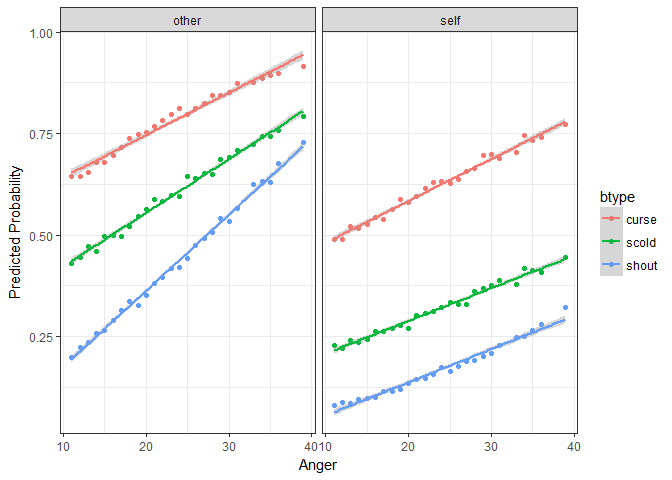
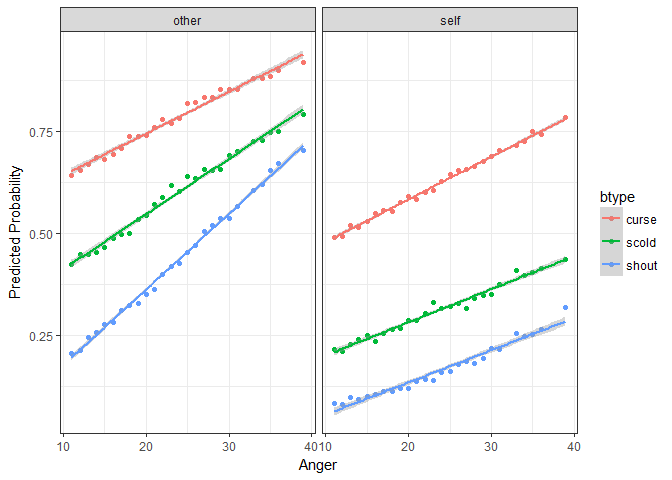
fix build errors and notes

diff --git a/README.md b/README.md
@@ -49,7 +49,6 @@ Shiny App and Demo
 The easiest way to demo the features of this application is to use the bundled Shiny application which launches a number of the metrics here to aide in exploring the model. To do this:
 
 ``` r
-devtools::install_github("jknowles/merTools")
 library(merTools)
 m1 <- lmer(y ~ service + lectage + studage + (1|d) + (1|s), data=InstEval)
 shinyMer(m1, simData = InstEval[1:100, ]) # just try the first 100 rows of data
@@ -86,17 +85,17 @@ With `predictInterval` we obtain predictions that are more like the standard obj
 #predictInterval(m1, newdata = InstEval[1:10, ]) # all other parameters are optional
 predictInterval(m1, newdata = InstEval[1:10, ], n.sims = 500, level = 0.9, 
                 stat = 'median')
-#>         fit      upr       lwr
-#> 1  3.237114 5.178429 1.1223680
-#> 2  3.044461 4.916916 1.0961706
-#> 3  3.438357 5.332750 1.4219809
-#> 4  3.027571 4.973256 0.9901124
-#> 5  3.269985 5.462748 1.4136442
-#> 6  3.286969 5.296241 1.3382832
-#> 7  4.242488 6.542798 2.0041429
-#> 8  3.721571 5.736674 1.8343516
-#> 9  3.743598 5.891128 1.7195178
-#> 10 3.419343 5.341034 1.4319983
+#>         fit      upr      lwr
+#> 1  3.168065 5.101014 1.158220
+#> 2  3.145478 5.274931 1.190373
+#> 3  3.392613 5.590413 1.539565
+#> 4  3.138387 5.028683 1.311576
+#> 5  3.397307 5.486894 1.287190
+#> 6  3.263650 5.191198 1.199061
+#> 7  4.251013 6.065739 2.107230
+#> 8  4.047291 5.813104 1.974133
+#> 9  3.686001 5.838891 1.816260
+#> 10 3.264626 5.234812 1.289614
 ```
 
 Note that `predictInterval` is slower because it is computing simulations. It can also return all of the simulated `yhat` values as an attribute to the predict object itself.
@@ -110,52 +109,53 @@ We can also explore the components of the prediction interval by asking `predict
 ``` r
 predictInterval(m1, newdata = InstEval[1:10, ], n.sims = 200, level = 0.9, 
                 stat = 'median', which = "all")
-#>      effect         fit      upr       lwr obs
-#> 1  combined  3.13802196 4.719743  1.347545   1
-#> 2  combined  2.95109536 4.872412  1.410548   2
-#> 3  combined  3.37110677 5.469444  1.466620   3
-#> 4  combined  3.16988494 5.195515  1.191728   4
-#> 5  combined  3.40252170 5.463127  1.449450   5
-#> 6  combined  3.15570458 5.303344  1.369328   6
-#> 7  combined  4.22907656 6.020314  2.477142   7
-#> 8  combined  3.77138257 5.908368  1.961115   8
-#> 9  combined  3.67200743 5.702303  1.895175   9
-#> 10 combined  3.39860415 5.780355  1.131460  10
-#> 11        s  0.02263697 2.024355 -1.879137   1
-#> 12        s  0.08910235 2.453711 -1.910101   2
-#> 13        s  0.20390380 2.204549 -1.531280   3
-#> 14        s  0.07476931 2.209324 -1.635799   4
-#> 15        s -0.27105952 1.597833 -1.960480   5
-#> 16        s -0.14858409 2.373469 -2.071048   6
-#> 17        s  0.36679666 2.167334 -1.799921   7
-#> 18        s  0.11402859 2.031803 -1.733151   8
-#> 19        s  0.47395479 2.392591 -1.389445   9
-#> 20        s  0.28443184 2.295856 -1.528997  10
-#> 21        d -0.14468649 2.031511 -2.079169   1
-#> 22        d -0.09577183 1.728302 -2.223127   2
-#> 23        d  0.10723798 2.159129 -1.833482   3
-#> 24        d -0.12653441 1.794607 -2.164757   4
-#> 25        d  0.15969618 2.228805 -2.052448   5
-#> 26        d  0.04889610 1.936657 -1.930860   6
-#> 27        d  0.68879320 2.383263 -1.000621   7
-#> 28        d  0.20416870 2.021266 -1.587005   8
-#> 29        d  0.11384126 2.124815 -1.704743   9
-#> 30        d -0.25093957 1.666946 -2.176818  10
-#> 31    fixed  3.15731377 5.161839  1.284808   1
-#> 32    fixed  3.25919968 5.116450  1.447072   2
-#> 33    fixed  3.28844467 5.029445  1.231928   3
-#> 34    fixed  3.15963283 5.190806  1.037147   4
-#> 35    fixed  3.33292708 4.782191  1.367022   5
-#> 36    fixed  3.29658917 5.107461  1.308795   6
-#> 37    fixed  3.25299127 5.139824  1.146397   7
-#> 38    fixed  3.22639471 4.739550  1.491264   8
-#> 39    fixed  3.28930903 5.200827  1.322727   9
-#> 40    fixed  3.31087713 5.158709  1.673070  10
+#>      effect          fit      upr       lwr obs
+#> 1  combined  3.112867407 4.986883  1.041417   1
+#> 2  combined  2.989389447 4.991738  1.142979   2
+#> 3  combined  3.418377391 5.446396  1.415533   3
+#> 4  combined  3.204571267 5.170244  1.141322   4
+#> 5  combined  3.285116884 5.267212  1.540779   5
+#> 6  combined  3.082323400 5.250609  0.898447   6
+#> 7  combined  4.169363868 6.190107  2.240950   7
+#> 8  combined  3.827953300 6.013183  1.708390   8
+#> 9  combined  3.708192514 5.808735  1.784811   9
+#> 10 combined  3.379363265 5.358377  1.147798  10
+#> 11        s  0.214052526 1.878793 -1.943308   1
+#> 12        s  0.200860375 1.844383 -1.649367   2
+#> 13        s  0.130458391 2.324902 -1.656628   3
+#> 14        s  0.112916598 2.196385 -1.855981   4
+#> 15        s -0.147686282 1.784524 -1.789859   5
+#> 16        s  0.079661473 1.831603 -1.902383   6
+#> 17        s  0.348544074 2.183217 -1.909237   7
+#> 18        s  0.415829437 2.239591 -1.603185   8
+#> 19        s  0.205510317 2.134001 -1.900833   9
+#> 20        s  0.227854238 2.225521 -1.532491  10
+#> 21        d -0.345513817 1.954967 -2.021580   1
+#> 22        d -0.209006946 1.924467 -2.172302   2
+#> 23        d  0.177014731 1.922807 -1.728790   3
+#> 24        d -0.092382741 1.743827 -2.195150   4
+#> 25        d  0.093043286 1.902361 -1.887277   5
+#> 26        d  0.009651465 2.064675 -1.840032   6
+#> 27        d  0.756918178 2.336602 -1.092124   7
+#> 28        d  0.344379468 2.277583 -1.497924   8
+#> 29        d  0.226951343 1.991785 -1.799554   9
+#> 30        d -0.206121277 1.887244 -2.098502  10
+#> 31    fixed  3.285346958 5.349092  1.512967   1
+#> 32    fixed  3.414238014 5.085391  1.402841   2
+#> 33    fixed  3.191911826 5.025254  1.166261   3
+#> 34    fixed  3.054363384 4.911773  1.128827   4
+#> 35    fixed  3.306328559 5.134675  1.692722   5
+#> 36    fixed  3.258911806 5.152391  1.678185   6
+#> 37    fixed  2.974008141 4.851762  1.068538   7
+#> 38    fixed  3.359217613 5.265864  1.473522   8
+#> 39    fixed  3.124721362 4.933596  1.376023   9
+#> 40    fixed  3.309916523 5.050473  1.252730  10
 ```
 
 This can lead to some useful plotting:
 
 ``` r
+library(ggplot2)
 plotdf <- predictInterval(m1, newdata = InstEval[1:10, ], n.sims = 2000, 
                           level = 0.9, stat = 'median', which = "all", 
                           include.resid.var = FALSE)
@@ -197,12 +197,12 @@ Plotting
 feSims <- FEsim(m1, n.sims = 100)
 head(feSims)
 #>          term        mean      median         sd
-#> 1 (Intercept)  3.22450167  3.22518005 0.01658874
-#> 2    service1 -0.07035669 -0.07063585 0.01398532
-#> 3   lectage.L -0.18492073 -0.18684245 0.01609972
-#> 4   lectage.Q  0.02392426  0.02514560 0.01201339
-#> 5   lectage.C -0.02489267 -0.02481988 0.01432019
-#> 6   lectage^4 -0.02083579 -0.01913810 0.01351510
+#> 1 (Intercept)  3.22774912  3.22942908 0.02039429
+#> 2    service1 -0.07170745 -0.07213702 0.01163877
+#> 3   lectage.L -0.18569377 -0.18279299 0.01565488
+#> 4   lectage.Q  0.02178664  0.02132772 0.01164987
+#> 5   lectage.C -0.02577289 -0.02712761 0.01257388
+#> 6   lectage^4 -0.02243780 -0.02179817 0.01154704
 ```
 
 And we can also plot this:
@@ -219,12 +219,12 @@ We can also quickly make caterpillar plots for the random-effect terms:
 reSims <- REsim(m1, n.sims = 100)
 head(reSims)
 #>   groupFctr groupID        term        mean      median        sd
-#> 1         s       1 (Intercept)  0.12267659  0.16448740 0.2921818
-#> 2         s       2 (Intercept) -0.02701206 -0.05781139 0.3079535
-#> 3         s       3 (Intercept)  0.27639010  0.27821389 0.3101216
-#> 4         s       4 (Intercept)  0.31600959  0.29023980 0.3422365
-#> 5         s       5 (Intercept)  0.08113060  0.08345528 0.3495597
-#> 6         s       6 (Intercept)  0.07523517  0.06432870 0.2299852
+#> 1         s       1 (Intercept)  0.10840825  0.12737177 0.3052798
+#> 2         s       2 (Intercept) -0.08274821 -0.09812382 0.3369063
+#> 3         s       3 (Intercept)  0.29195086  0.33069702 0.2673189
+#> 4         s       4 (Intercept)  0.23319286  0.26716723 0.3119964
+#> 5         s       5 (Intercept)  0.05002205  0.02259669 0.3061090
+#> 6         s       6 (Intercept)  0.12910788  0.11464799 0.2531423
 ```
 
 ``` r
@@ -241,12 +241,12 @@ Sometimes the random effects can be hard to interpret and not all of them are me
 ranks <- expectedRank(m1, groupFctr = "d")
 head(ranks)
 #>   groupFctr groupLevel       term   estimate  std.error       ER pctER
-#> 2         d          1 _Intercept  0.3944916 0.08665150 835.3004    74
-#> 3         d          6 _Intercept -0.4428947 0.03901988 239.5364    21
+#> 2         d          1 _Intercept  0.3944916 0.08665149 835.3004    74
+#> 3         d          6 _Intercept -0.4428947 0.03901987 239.5364    21
 #> 4         d          7 _Intercept  0.6562683 0.03717200 997.3570    88
 #> 5         d          8 _Intercept -0.6430679 0.02210017 138.3445    12
 #> 6         d         12 _Intercept  0.1902942 0.04024063 702.3412    62
-#> 7         d         13 _Intercept  0.2497467 0.03216255 750.0176    66
+#> 7         d         13 _Intercept  0.2497467 0.03216254 750.0176    66
 ```
 
 A nice features `expectedRank` is that you can return the expected rank for all factors simultaneously and use them:
@@ -255,12 +255,12 @@ A nice features `expectedRank` is that you can return the expected rank for all 
 ranks <- expectedRank(m1)
 head(ranks)
 #>   groupFctr groupLevel       term    estimate  std.error       ER pctER
-#> 2         s          1 _Intercept  0.16732718 0.08165628 1931.568    65
-#> 3         s          2 _Intercept -0.04409513 0.09234202 1368.161    46
-#> 4         s          3 _Intercept  0.30382117 0.05204066 2309.940    78
-#> 5         s          4 _Intercept  0.24756074 0.06641674 2151.827    72
-#> 6         s          5 _Intercept  0.05232307 0.08174092 1627.693    55
-#> 7         s          6 _Intercept  0.10191618 0.06648369 1772.548    60
+#> 2         s          1 _Intercept  0.16732725 0.08165631 1931.569    65
+#> 3         s          2 _Intercept -0.04409515 0.09234206 1368.161    46
+#> 4         s          3 _Intercept  0.30382125 0.05204068 2309.940    78
+#> 5         s          4 _Intercept  0.24756083 0.06641676 2151.827    72
+#> 6         s          5 _Intercept  0.05232309 0.08174095 1627.693    55
+#> 7         s          6 _Intercept  0.10191622 0.06648371 1772.548    60
 
 ggplot(ranks, aes(x = term, y = estimate)) + 
   geom_violin(fill = "gray50") + facet_wrap(~groupFctr) +
@@ -280,11 +280,11 @@ impSim <- REimpact(m1, InstEval[7, ], groupFctr = "d", breaks = 5,
 #> Warning: executing %dopar% sequentially: no parallel backend registered
 impSim
 #>   case bin   AvgFit     AvgFitSE nobs
-#> 1    1   1 2.778793 3.275142e-04  193
-#> 2    1   2 3.240974 7.034638e-05  240
-#> 3    1   3 3.521627 5.823202e-05  254
-#> 4    1   4 3.810390 5.598813e-05  265
-#> 5    1   5 4.187144 1.975556e-04  176
+#> 1    1   1 2.784442 3.217872e-04  193
+#> 2    1   2 3.257485 6.797772e-05  240
+#> 3    1   3 3.556476 5.686517e-05  254
+#> 4    1   4 3.838122 6.070734e-05  265
+#> 5    1   5 4.217048 1.810544e-04  176
 ```
 
 The result of `REimpact` shows the change in the `yhat` as the case we supplied to `newdata` is moved from the first to the fifth quintile in terms of the magnitude of the group factor coefficient. We can see here that the individual professor effect has a strong impact on the outcome variable. This can be shown graphically as well:
@@ -312,7 +312,7 @@ fmVA <- glmer(r2 ~ (Anger + Gender + btype + situ)^2 +
            (1|id) + (1|item), family = binomial, 
            data = VerbAgg)
 #> Warning in checkConv(attr(opt, "derivs"), opt$par, ctrl = control
-#> $checkConv, : Model failed to converge with max|grad| = 0.0534956 (tol =
+#> $checkConv, : Model failed to converge with max|grad| = 0.0505464 (tol =
 #> 0.001, component 1)
 ```
 
@@ -321,21 +321,24 @@ Now we prep the data using the `draw` function in `merTools`. Here we draw the a
 ``` r
 # Select the average case
 newData <- draw(fmVA, type = "average")
-newData <- wiggle(newData, var = "btype", values = unique(VerbAgg$btype))
-newData <- wiggle(newData, var = "situ", values = unique(VerbAgg$situ))
-newData <- wiggle(newData, var = "Anger", values = unique(VerbAgg$Anger))
+newData <- wiggle(newData, varlist = "btype", 
+                  valueslist = list(unique(VerbAgg$btype)))
+newData <- wiggle(newData, var = "situ", 
+                  valueslist = list(unique(VerbAgg$situ)))
+newData <- wiggle(newData, var = "Anger", 
+                  valueslist = list(unique(VerbAgg$Anger)))
 head(newData, 10)
-#>    r2 Anger Gender btype  situ id        item
-#> 1   N    20      F curse other  5 S3WantCurse
-#> 2   N    20      F scold other  5 S3WantCurse
-#> 3   N    20      F shout other  5 S3WantCurse
-#> 4   N    20      F curse  self  5 S3WantCurse
-#> 5   N    20      F scold  self  5 S3WantCurse
-#> 6   N    20      F shout  self  5 S3WantCurse
-#> 7   N    11      F curse other  5 S3WantCurse
-#> 8   N    11      F scold other  5 S3WantCurse
-#> 9   N    11      F shout other  5 S3WantCurse
-#> 10  N    11      F curse  self  5 S3WantCurse
+#>    r2 Anger Gender btype  situ  id        item
+#> 1   N    20      F curse other 149 S3WantCurse
+#> 2   N    20      F scold other 149 S3WantCurse
+#> 3   N    20      F shout other 149 S3WantCurse
+#> 4   N    20      F curse  self 149 S3WantCurse
+#> 5   N    20      F scold  self 149 S3WantCurse
+#> 6   N    20      F shout  self 149 S3WantCurse
+#> 7   N    11      F curse other 149 S3WantCurse
+#> 8   N    11      F scold other 149 S3WantCurse
+#> 9   N    11      F shout other 149 S3WantCurse
+#> 10  N    11      F curse  self 149 S3WantCurse
 ```
 
 The next step is familiar -- we simply pass this new dataset to `predictInterval` in order to generate predictions for these counterfactuals. Then we plot the predicted values against the continuous variable, `Anger`, and facet and group on the two categorical variables `situ` and `btype` respectively.

diff --git a/cran-comments.md b/cran-comments.md
@@ -1,6 +1,6 @@
 ## Test environments
-* local Windows 7 install, R 3.3.2
-* ubuntu 12.04 (on travis-ci), R devel, R-Release
+* local Windows 10 install, R 3.5.0
+* ubuntu 14.05 (on travis-ci), R devel, R-Release
 * win-builder (devel and release)
 
 ## R CMD check results
@@ -10,8 +10,10 @@ link from the documentation page to the expected target.
 
 * Used utils::globalVariables(c(".shinyMerPar", "sig", "sigma")) to fix notes
 about unexported objects.
-* Used utils::globalVariables(c("term", "estimate", "std.error")) to fix notes 
-about unexported objects in `modelFixedEff` function
+* Used utils::globalVariables(c("Lind", "group", "est", "mean_est", "est_ss", 
+                                "within_var", "between_var", "statistic")) 
+to fix notes about unexported objects in `modelFixedEff` and `fastdisp.merList` 
+functions
 
 ## Downstream dependencies
 There are currently no downstream dependencies. 

diff --git a/NEWS.md b/NEWS.md
@@ -115,7 +115,7 @@ need
 
 ### Future changes
 - For the next release (1.0) we are considering a permanent switch to 
-C++ RMVN sampler courtesy of Giri Gopalan 's excellent [FastGP](http://www.github.com/ggopalan/FastGP) package
+C++ RMVN sampler courtesy of Giri Gopalan 's excellent FastGP
 
 
 
